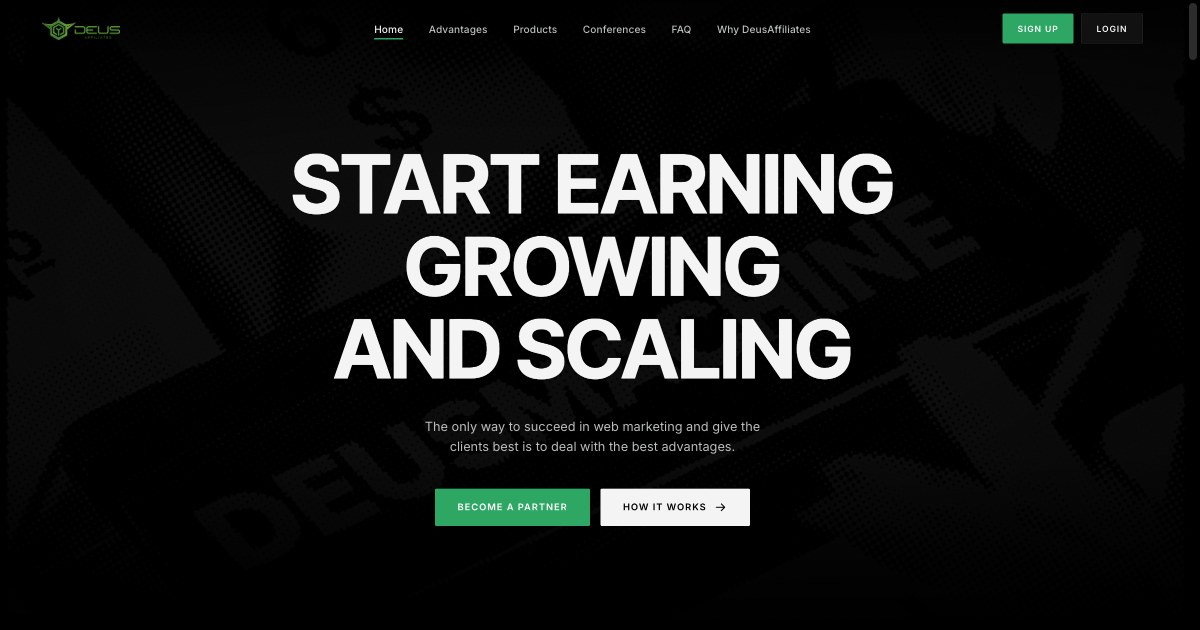
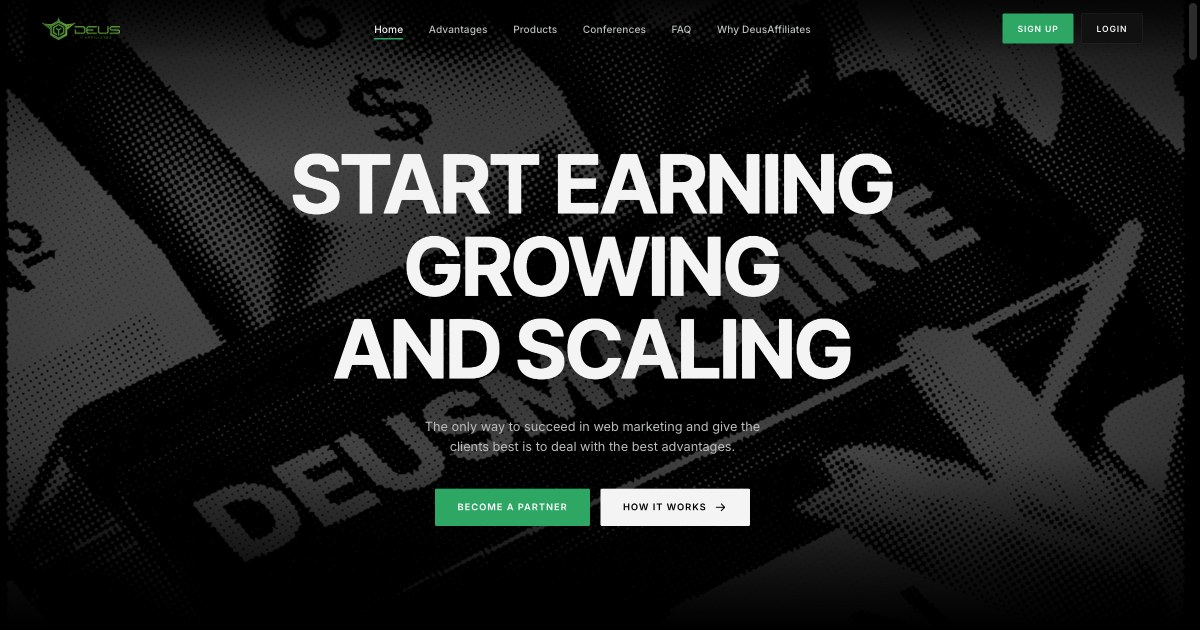
feat: full-canvas halftone posters (WebP), rebalanced hero contrast
- New source images: full 5797x6905 portrait posters (flowers + full key
  spread), no letterbox — replaces the landscape crop
- Encoded as WebP 1600px q58 (592K/824K; dense halftone defeats JPEG)
- Hero bw layer .48 → .3 + center scrim in vignette so the brighter
  full-canvas whites don't fight the headline/sub
- OG image regenerated

diff --git a/index.html b/index.html
@@ -15,7 +15,7 @@
   <link rel="icon" href="/favicon.ico" />
   <link rel="preload" as="font" type="font/woff2" href="assets/fonts/inter-tight-var.woff2" crossorigin />
   <link rel="preload" as="font" type="font/woff2" href="assets/fonts/inter-var.woff2" crossorigin />
-  <link rel="preload" as="image" href="assets/hero-halftone-bw.jpg" fetchpriority="high" />
+  <link rel="preload" as="image" href="assets/hero-halftone-bw.webp" fetchpriority="high" />
   <link rel="stylesheet" href="styles.css" />
   <script>document.documentElement.classList.add('js')</script>
   <script type="application/ld+json">
@@ -90,10 +90,10 @@
     <section class="hero">
       <div class="hero__bg" aria-hidden="true">
         <div class="hero__layer hero__layer--bw">
-          <img class="hero__poster" src="assets/hero-halftone-bw.jpg" alt="" draggable="false" />
+          <img class="hero__poster" src="assets/hero-halftone-bw.webp" alt="" draggable="false" />
         </div>
         <div class="hero__layer hero__layer--color">
-          <img class="hero__poster" src="assets/hero-halftone-color.jpg" alt="" draggable="false" loading="lazy" decoding="async" />
+          <img class="hero__poster" src="assets/hero-halftone-color.webp" alt="" draggable="false" loading="lazy" decoding="async" />
         </div>
         <div class="hero__vignette"></div>
         <div class="hero__noise"></div>
@@ -303,8 +303,8 @@
         </div>
         <figure class="why__figure" data-reveal aria-hidden="true">
           <div class="why__frame">
-            <img class="why__img why__img--bw" src="assets/hero-halftone-bw.jpg" alt="" draggable="false" loading="lazy" decoding="async" />
-            <img class="why__img why__img--color" src="assets/hero-halftone-color.jpg" alt="" draggable="false" loading="lazy" decoding="async" />
+            <img class="why__img why__img--bw" src="assets/hero-halftone-bw.webp" alt="" draggable="false" loading="lazy" decoding="async" />
+            <img class="why__img why__img--color" src="assets/hero-halftone-color.webp" alt="" draggable="false" loading="lazy" decoding="async" />
           </div>
           <figcaption>DEUSMACHINE — the engine behind the network</figcaption>
         </figure>
@@ -409,10 +409,10 @@
     <section class="cta" id="signup">
       <div class="cta__bg" aria-hidden="true">
         <div class="cta__layer cta__layer--bw">
-          <img class="cta__poster" src="assets/hero-halftone-bw.jpg" alt="" draggable="false" loading="lazy" decoding="async" />
+          <img class="cta__poster" src="assets/hero-halftone-bw.webp" alt="" draggable="false" loading="lazy" decoding="async" />
         </div>
         <div class="cta__layer cta__layer--color">
-          <img class="cta__poster" src="assets/hero-halftone-color.jpg" alt="" draggable="false" loading="lazy" decoding="async" />
+          <img class="cta__poster" src="assets/hero-halftone-color.webp" alt="" draggable="false" loading="lazy" decoding="async" />
         </div>
         <div class="cta__glow"></div>
       </div>

diff --git a/styles.css b/styles.css
@@ -199,13 +199,14 @@ html { scrollbar-color: #2c2c2c var(--black); }
   pointer-events: none;
   will-change: transform;
 }
-.hero__layer--bw .hero__poster { opacity: .48; }
+.hero__layer--bw .hero__poster { opacity: .3; }
 .hero__layer--color .hero__poster { opacity: .9; filter: saturate(1.35); }
 
 .hero__vignette {
   position: absolute; inset: 0;
   background:
-    radial-gradient(ellipse 92% 78% at 50% 44%, transparent 38%, rgba(0,0,0,.7) 100%),
+    radial-gradient(ellipse 62% 52% at 50% 46%, rgba(0,0,0,.5), transparent 72%),
+    radial-gradient(ellipse 92% 78% at 50% 44%, transparent 38%, rgba(0,0,0,.78) 100%),
     linear-gradient(to bottom, rgba(0,0,0,.55), transparent 26%, transparent 72%, #000 100%);
 }
 